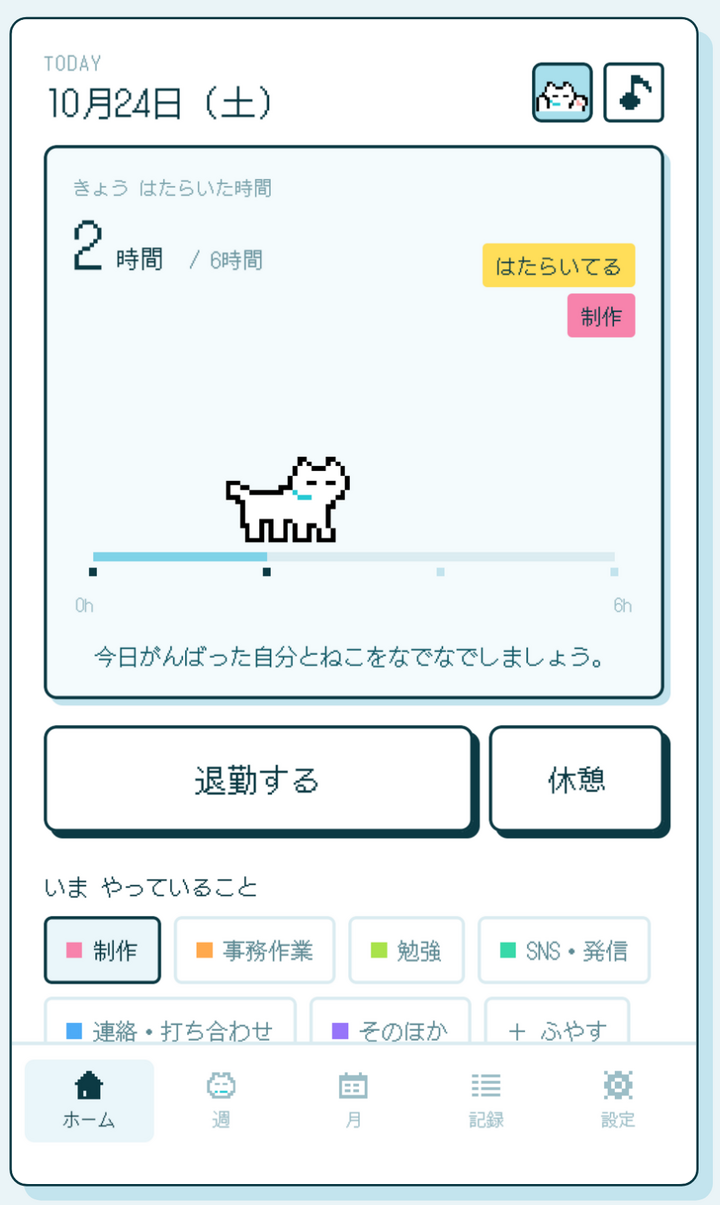
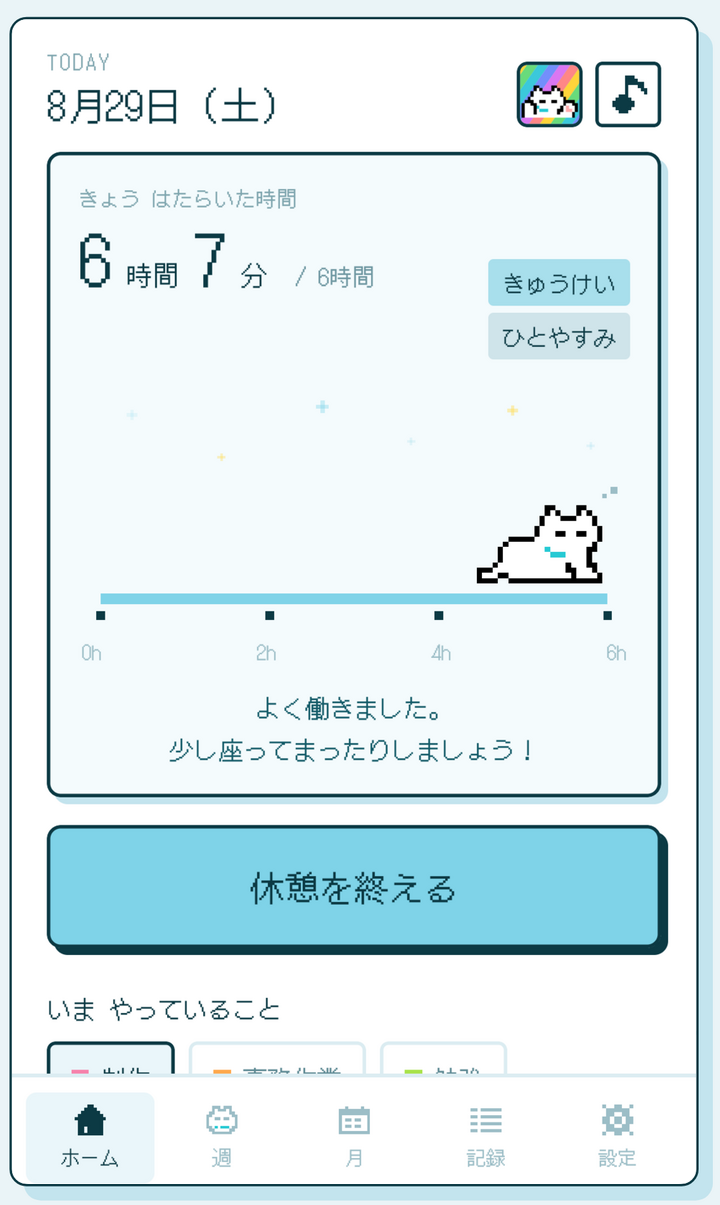
LP の日本語ホーム画像を元に戻す（差し替えるのはねこ屋さんだけ）
- LP のホームは別に選んだ絵（8月29日・6時間7分・休憩中）で、ストア 1 枚目とは違う。rebuild-lp-screenshots.sh が上書きしたぶんを main の版に戻す
- 2.5.0 で変えるのはねこ屋さん（右上の家のマーク）だけ。README にも注意を書いた

Changed region(s): [[0.0611, 0.0307, 0.9472, 0.9826], [0.6417, 0.8905, 0.7028, 0.9826], [0.4278, 0.2149, 0.5194, 0.2456]]

diff --git a/docs/lp-screenshots/README.md b/docs/lp-screenshots/README.md
@@ -81,5 +81,7 @@ npm run prepare:lp-screenshot-demo -- en docs/lp-screenshots/demo/en-week-2026-0
 `sources/<locale>/screen-shop.png` は **ストア画像の撮影素材**（`~/git/nekokintai` の `docs/store/screenshots/2.5.0/<locale>/sources/final-4.png`。
 fixture データ・既定順・prod-internal の APK `608e3e5`）をそのまま置き、`npm run render:lp-localized-screenshots -- en ko zh-TW --screens=shop` で作った。
 ねこ屋さんは記録データに依らない画面なので、LP 用デモデータで撮り直していない。ホーム・週・月は 2.3.0 のまま。
-日本語は `scripts/rebuild-lp-screenshots.sh <2.5.0 の ja final-1/4 を置いた app_root>` で `screen-home.png` / `screen-shop.png` を作り直した。
+日本語は `scripts/rebuild-lp-screenshots.sh <2.5.0 の ja final-1/4 を置いた app_root>` で作り、**`screen-shop.png` だけ採用**した。
+`screen-home.png` は LP 用に別に選んだ絵（8月29日・6時間7分・休憩中）で、ストア 1 枚目（2 時間・勤務中）とは違うので、作り直したものは使わず元のまま。
+rebuild スクリプトはホームも上書きするので、次に使うときはホームを戻すこと。
 本番への反映は両ストアで 2.5.0 が公開されてから（QA と同じ `qa/2.5.0` ブランチ）。
